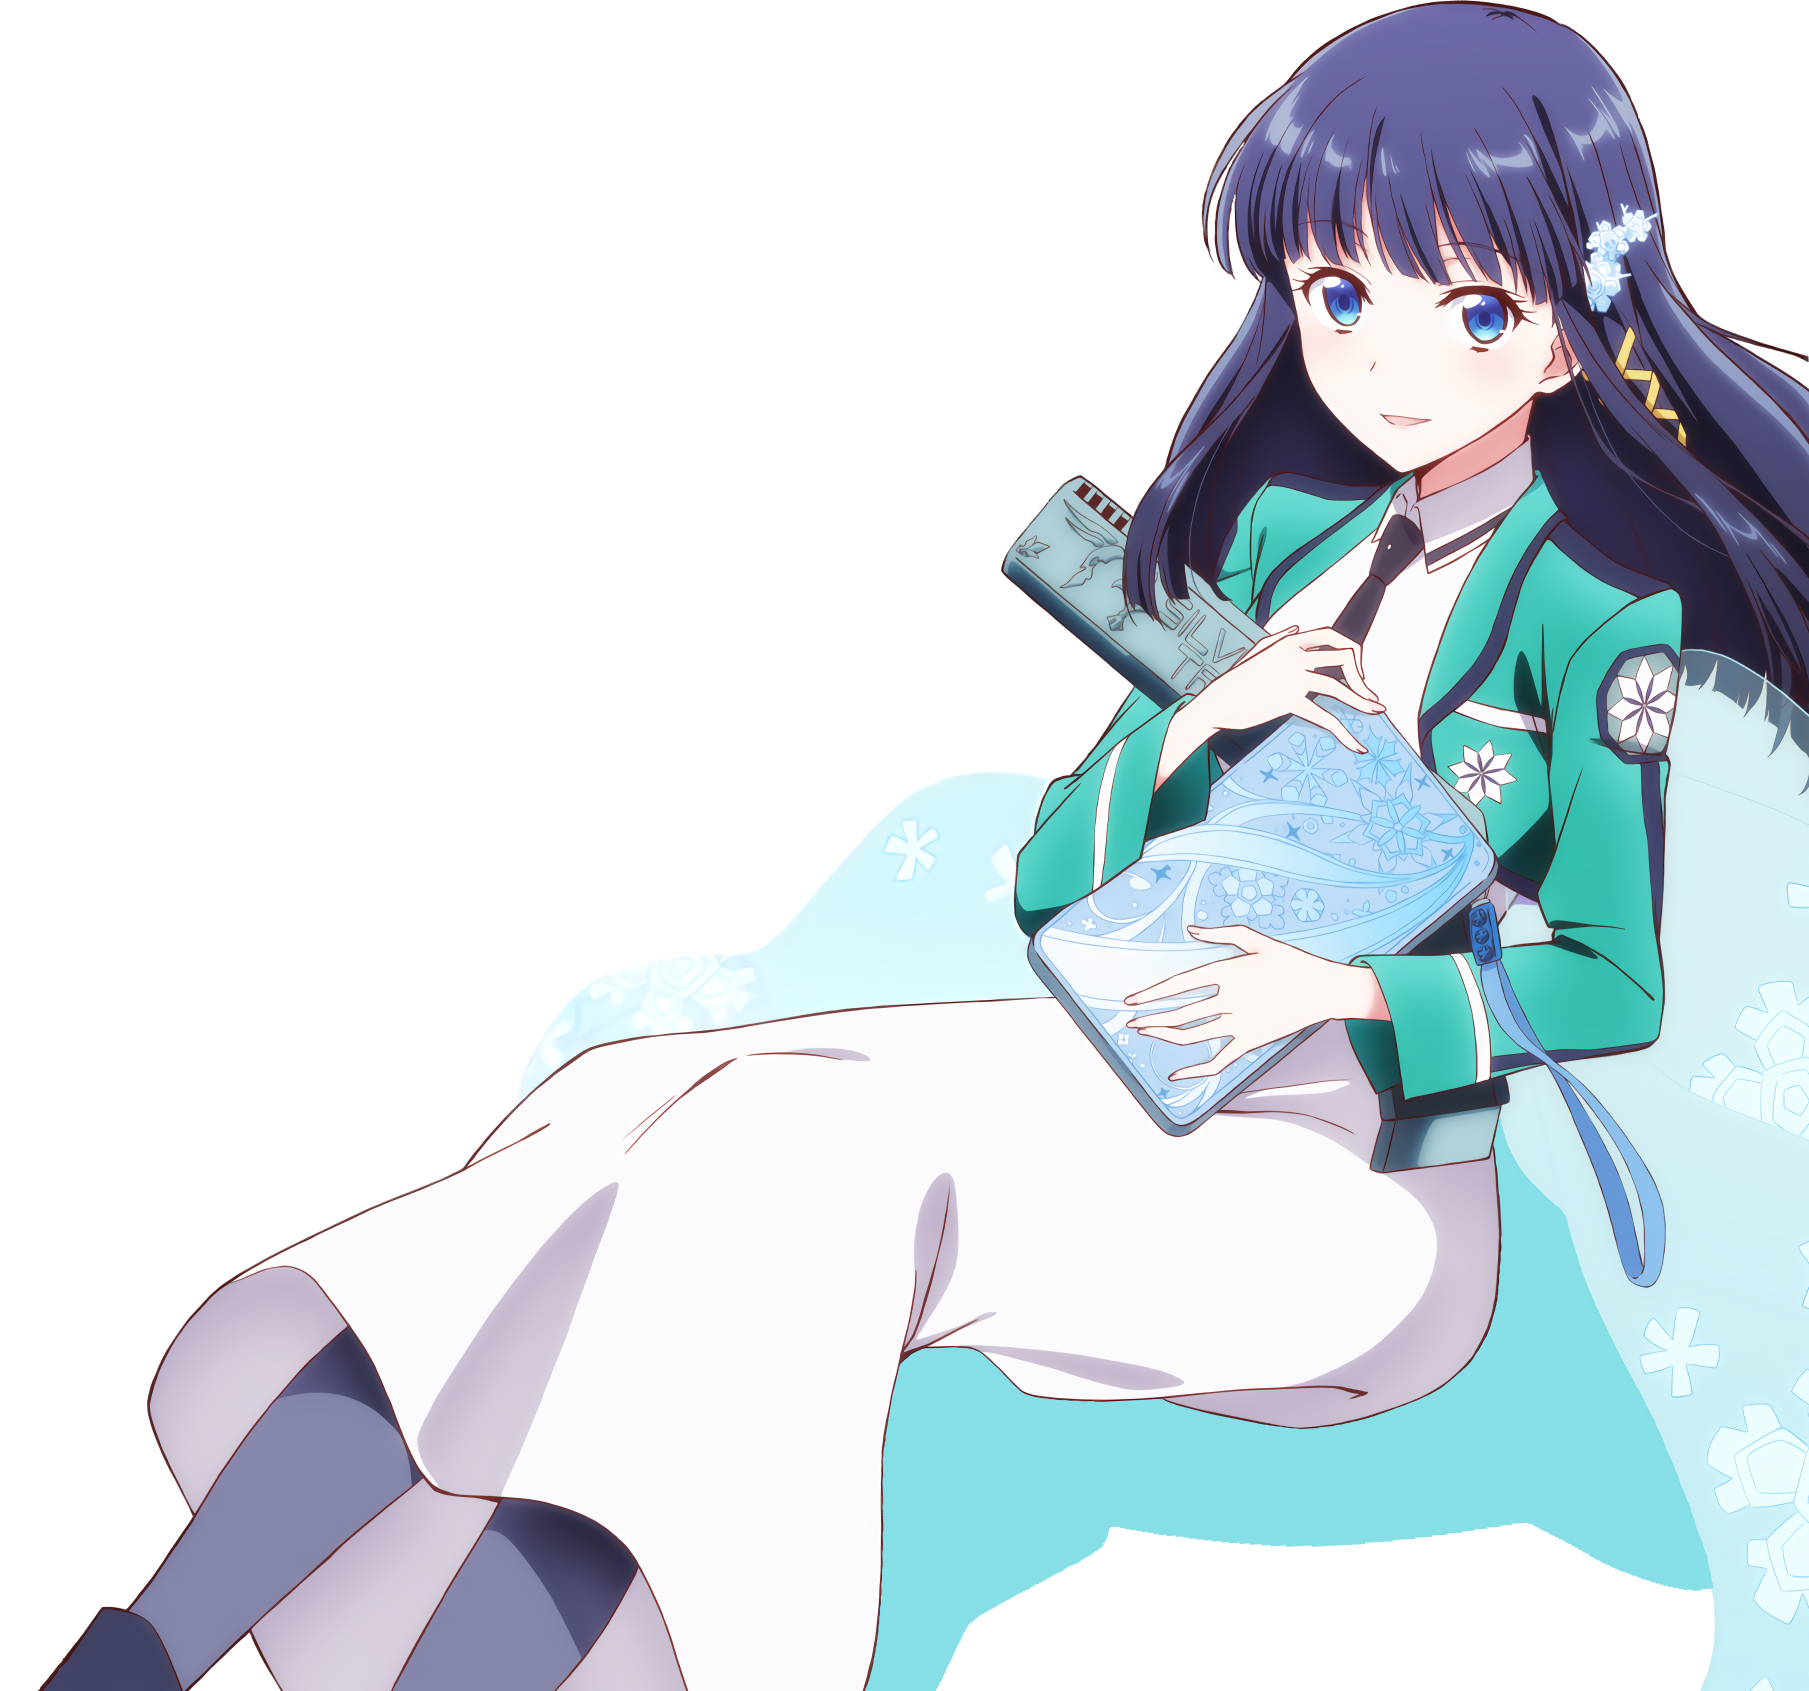
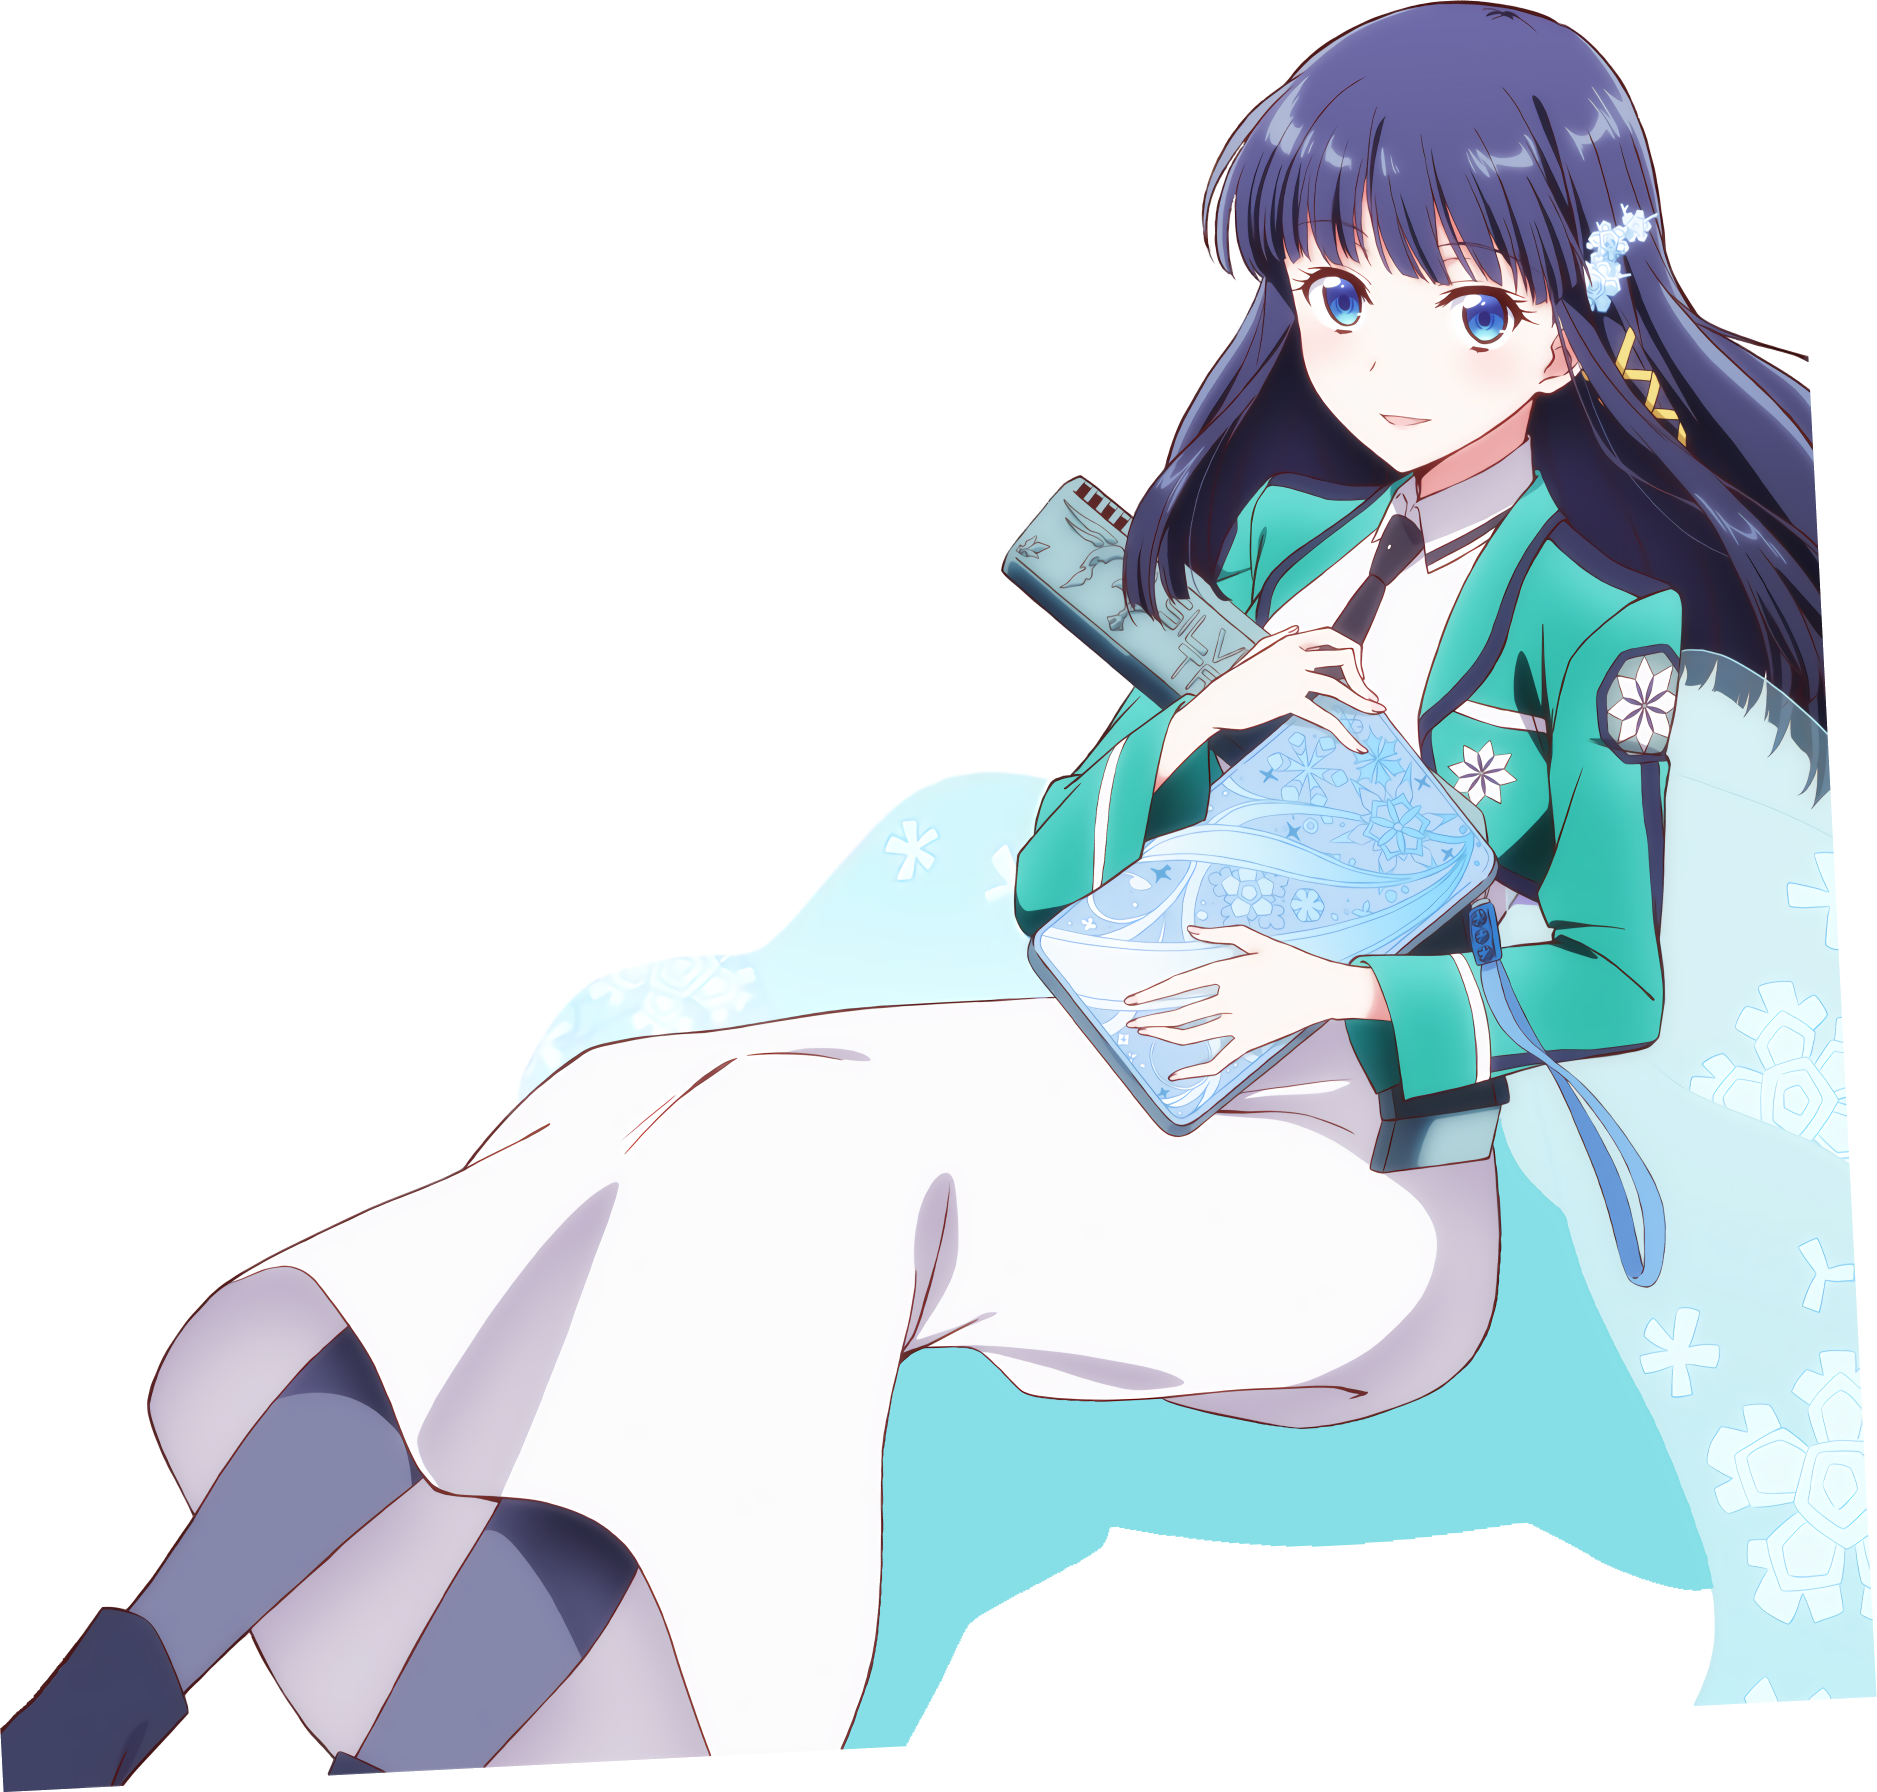
Update kv image and start

diff --git a/index.js b/index.js
@@ -46,16 +46,16 @@ let positions = {
 // kv_charas
 let kvs = {
     // charas
-    "miyuki": { origin: { width: 1809, height: 1691, x: 1746, y: 309, position: positions.BOTTOM_RIGHT, zIndex: 7 }, start: { x: kv_chara_width * -0.24, y: kv_chara_height * -0.6, rotate: 26, scale: 1.52, delay: 100 } },
-    "honoka": { origin: { width: 1193, height: 1120, x: 2124, y: 2, position: positions.TOP_RIGHT, zIndex: 6 }, start: { x: kv_chara_width * -0.1, y: kv_chara_height * -0.2, rotate: 14, scale: 1.4, delay: 200 } },
-    "shizuku": { origin: { width: 1638, height: 1020, x: 0, y: 980, position: positions.BOTTOM_LEFT, zIndex: 5 }, start: { x: kv_chara_width * -0.16, y: kv_chara_height * -0.24, rotate: 14, scale: 1.4, delay: 470 } },
+    "miyuki": { origin: { width: 1877, height: 1792, x: 1746, y: 309, position: positions.BOTTOM_RIGHT, zIndex: 7 }, start: { x: kv_chara_width * -0.12, y: kv_chara_height * 0.2, rotate: 24, scale: 1.42, delay: 100 } },
+    "honoka": { origin: { width: 1193, height: 1120, x: 2124, y: 2, position: positions.TOP_RIGHT, zIndex: 6 }, start: { x: kv_chara_width * 0.04, y: kv_chara_height * 0.14, rotate: 14, scale: 1.24, delay: 200 } },
+    "shizuku": { origin: { width: 1685, height: 1443, x: -47, y: 980, position: positions.BOTTOM_LEFT, zIndex: 5 }, start: { x: kv_chara_width * -0.06, y: kv_chara_height * -0.02, rotate: 14, scale: 1.2, delay: 500 } },
 
     // cads
-    "cad-1": { origin: { width: 156, height: 391, x: 171, y: 683, position: positions.CENTER_LEFT, zIndex: 4 }, start: { y: kv_chara_height * -0.35, rotate: 18, scale: 1.3, delay: 450 } },
-    "cad-2": { origin: { width: 434, height: 400, x: 0, y: 108, position: positions.CENTER_LEFT, zIndex: 3 }, start: { y: kv_chara_height * -0.3, rotate: 1, scale: 1.5, delay: 400 } },
-    "cad-3": { origin: { width: 732, height: 553, x: 616, y: 0, position: positions.TOP_CENTER, zIndex: 2 }, start: { x: kv_chara_width * 0.02, y: kv_chara_height * -0.3, rotate: 20, scale: 1.44, delay: 350 } },
-    "cad-4": { origin: { width: 288, height: 197, x: 1466, y: 318, position: positions.TOP_CENTER, zIndex: 1 }, start: { rotate: 8, scale: 1.4, delay: 300 } },
-    "cad-5": { origin: { width: 234, height: 239, x: 1825, y: 22, position: positions.TOP_CENTER, zIndex: 0 }, start: { rotate: 5, scale: 1.4, delay: 250 } },
+    "cad-1": { origin: { width: 156, height: 391, x: 171, y: 683, position: positions.CENTER_LEFT, zIndex: 4 }, start: { x: kv_chara_width * 0.1, y: kv_chara_height * -0.1, rotate: 8, scale: 1.3, delay: 450 } },
+    "cad-2": { origin: { width: 434, height: 400, x: 0, y: 108, position: positions.CENTER_LEFT, zIndex: 3 }, start: { x: kv_chara_width * 0.06, y: kv_chara_height * 0.02, rotate: 12, scale: 1.3, delay: 400 } },
+    "cad-3": { origin: { width: 732, height: 553, x: 616, y: 0, position: positions.TOP_CENTER, zIndex: 2 }, start: { x: kv_chara_width * 0.1, y: kv_chara_height * 0.08, rotate: 20, scale: 1.44, delay: 350 } },
+    "cad-4": { origin: { width: 288, height: 197, x: 1466, y: 318, position: positions.TOP_CENTER, zIndex: 1 }, start: { x: kv_chara_width * 0.16, y: kv_chara_height * 0.1, rotate: 8, scale: 1.4, delay: 300 } },
+    "cad-5": { origin: { width: 234, height: 239, x: 1825, y: 22, position: positions.TOP_CENTER, zIndex: 0 }, start: { x: kv_chara_width * 0.08, y: kv_chara_height * 0.2, rotate: 5, scale: 1.6, delay: 250 } },
 };
 
 
@@ -123,7 +123,7 @@ for (let [kv, attr] of Object.entries(kvs)) {
 
     attr.tween_opacity = new Konva.Tween({
         node: attr.konva,
-        duration: 0.32,
+        duration: 0.4,
         opacity: 1,
         easing: Konva.Easings.EaseInOut,
     });
